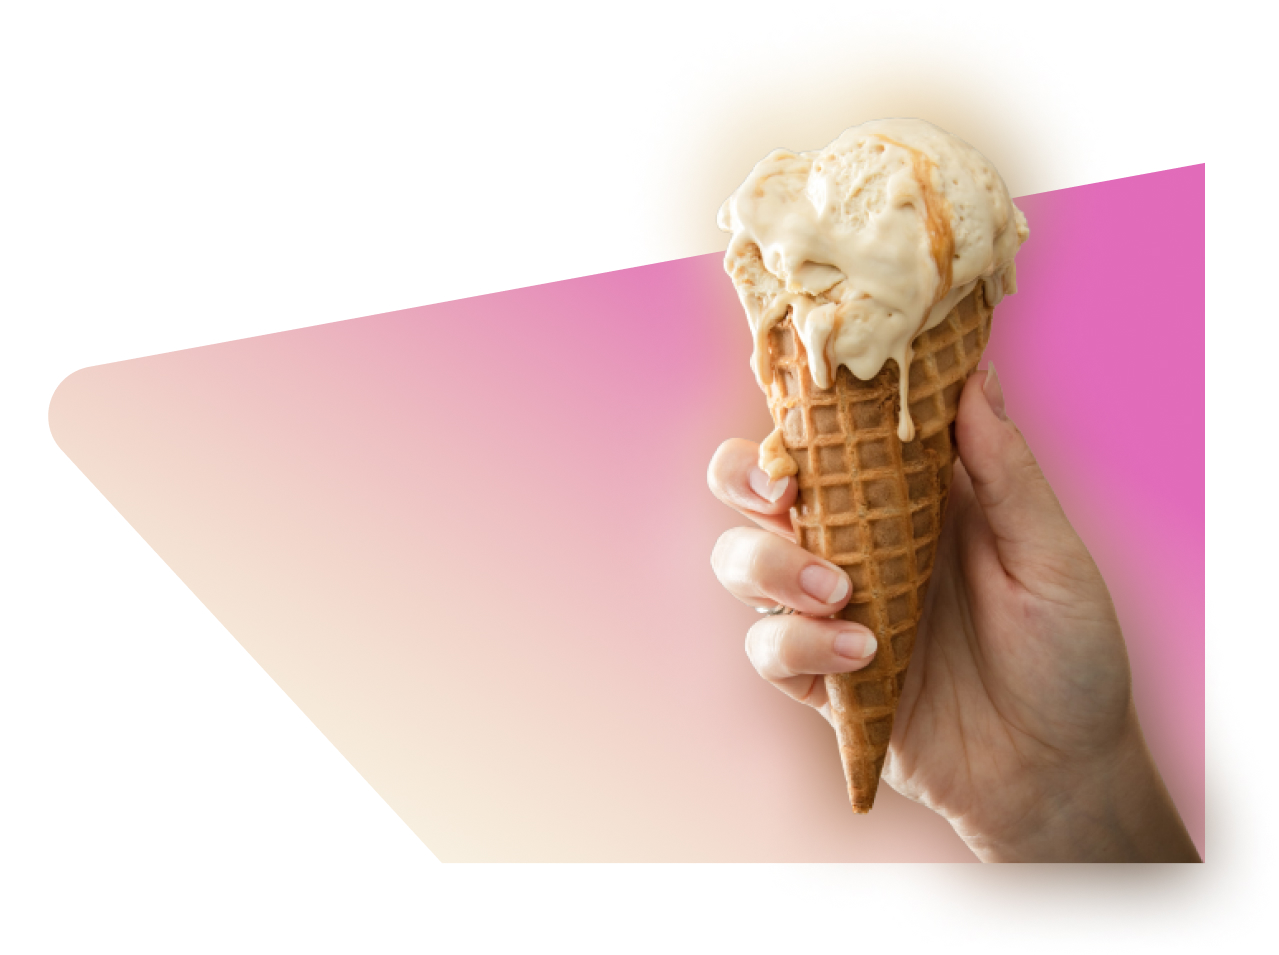
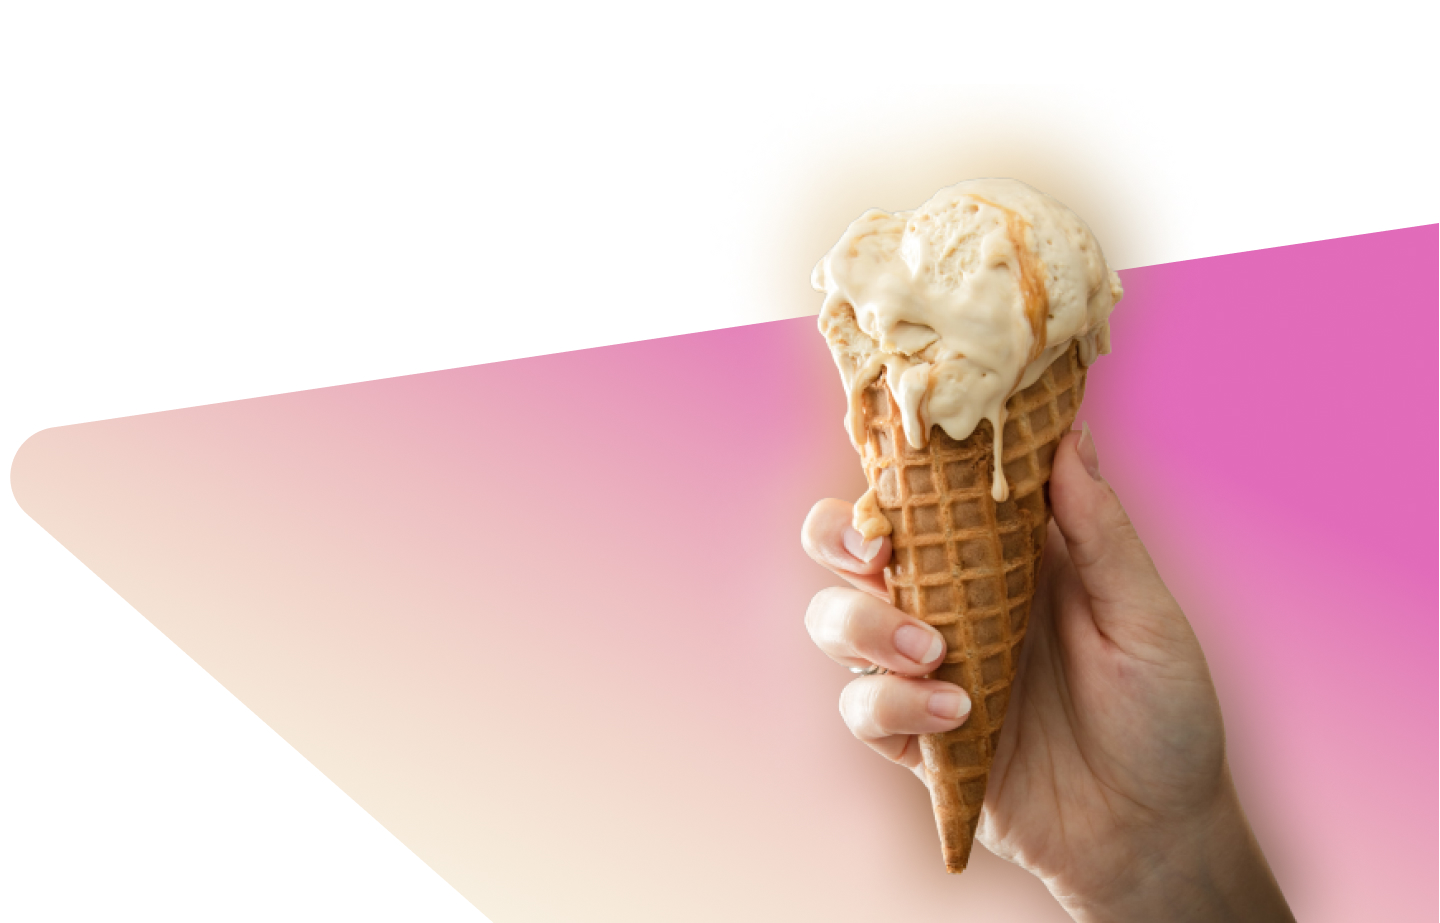
hero section done

diff --git a/_sass/layouts/_hero.scss b/_sass/layouts/_hero.scss
@@ -1,0 +1,137 @@
+@use '../base/utilities' as *;
+
+// main hero
+.hero {
+    // colors. using css variable due to some limitations with scss variables
+    --color-primary: hsl(184, 75%, 38%);
+    --color-primary-hue: 184;
+    --color-primary-saturation: 75%;
+    --color-primary-lightness: 50%;
+
+    position: relative;
+    min-height: 1200px;
+    // background-color: aquamarine;
+
+    .heroImage {
+        position: sticky;
+        top: 0px;
+        margin: auto;
+        height: 800px;
+        width: 100%;
+        background-image: url('../../assets/images/hero.jpg');
+        background-repeat: no-repeat;
+        background-position: center center;
+        background-size: cover;
+        z-index: -1;
+    }
+
+    .content {
+        position: sticky;
+        bottom: 40px;
+
+        margin-left: 230px;
+        padding: 30px;
+        color: var(--color-primary);
+        overflow: hidden;
+        display: inline-block;
+        width: 500px;
+
+        h1 {
+            max-width: 407px;
+            @include textShadow(5px, hsl(0, 0%, 45%));
+        }
+
+        h3 {
+            @include textShadow(8px, hsl(0, 0%, 45%));
+
+        }
+
+        .cta-btn {
+            margin-top: 30px;
+
+        }
+
+        button {
+            padding: 10px 30px;
+            border-radius: 30px;
+            color: var(--color-primary);
+            font-weight: 400;
+            font-size: toRem(16);
+            background-color: transparent;
+            border: none;
+            box-shadow: 1px 1px 3px 1px hsl(var(--color-primary-hue), var(--color-primary-saturation), var(--color-primary-lightness));
+        }
+
+        button:hover {
+            background-color: var(--color-primary);
+            color: #eee;
+
+        }
+
+        button:nth-child(2) {
+            --color-primary-lightness: 30%;
+            margin: 0 10px;
+            background-color: var(--color-primary);
+            color: #eee;
+
+            &:hover {
+                --color-primary-lightness: 50%;
+                background-color: transparent;
+                color: var(--color-primary);
+            }
+        }
+
+    }
+
+    @media(max-width: 768px) {
+
+        .content {
+            bottom: 35vh;
+            margin-left: 0;
+        }
+    }
+}
+
+
+// slider
+
+.sliderWrapper {
+    position: sticky;
+    bottom: 100px;
+    padding-bottom: 20px;
+
+    z-index: -10;
+    overflow: hidden;
+    width: 100%;
+    // background-color: aqua;
+}
+.sliderContainer {
+    display: flex;
+    margin: 100px auto;
+    rotate: -8.2deg;
+    width: 120%;
+    
+    .slider {
+        display: flex;
+        animation: slider 20s linear 0s infinite;
+    }
+    
+    .slide {   
+        margin: 0 5px;
+        overflow: hidden;
+    }
+    .txt {
+        $color-primary: hsl(184, 75%, 38%);
+        font-size: 64px;
+        font-family: 'Kalam', cursive;
+        white-space: nowrap;
+        color: $color-primary;
+    }
+
+    @keyframes slider {
+        100% {
+            transform: translateX(-100%);
+        }
+
+    }
+}

diff --git a/_includes/hero.html b/_includes/hero.html
@@ -1,22 +1,4 @@
-<!DOCTYPE html>
-<html lang="en">
-    <head>
-    <meta charset="UTF-8">
-    <meta http-equiv="X-UA-Compatible" content="IE=edge">
-    <meta name="viewport" content="width=device-width, initial-scale=1.0">
-    <title>Delicious Creams!</title>
-    <link rel="icon" href="assets/images/favicon.svg" type="image/svg+xml">
-    <link href="https://cdn.jsdelivr.net/npm/bootstrap@5.3.0-alpha1/dist/css/bootstrap.min.css" rel="stylesheet" integrity="sha384-GLhlTQ8iRABdZLl6O3oVMWSktQOp6b7In1Zl3/Jr59b6EGGoI1aFkw7cmDA6j6gD" crossorigin="anonymous">
-<link rel="stylesheet" href="/assets/css/styles.css">
-<link rel="preconnect" href="https://fonts.googleapis.com">
-<link rel="preconnect" href="https://fonts.gstatic.com" crossorigin>
-<link href="https://fonts.googleapis.com/css2?family=Kalam:wght@400;700&display=swap" rel="stylesheet">
-<link rel="preconnect" href="https://fonts.googleapis.com">
-<link rel="preconnect" href="https://fonts.gstatic.com" crossorigin>
-<link href="https://fonts.googleapis.com/css2?family=Ubuntu:ital@0;1&display=swap" rel="stylesheet">
-</head>
-<body>
-    <section>
+<section>
     <div class="hero">
         <div class="heroImage"></div>
         <div class="container content">
@@ -82,9 +64,3 @@
         imgContainer.width = result + '%'
     }
 </script>
-
-    <script src="https://cdn.jsdelivr.net/npm/bootstrap@5.3.0-alpha1/dist/js/bootstrap.bundle.min.js" integrity="sha384-w76AqPfDkMBDXo30jS1Sgez6pr3x5MlQ1ZAGC+nuZB+EYdgRZgiwxhTBTkF7CXvN" crossorigin="anonymous"></script>
-<script src="https://ajax.googleapis.com/ajax/libs/jquery/3.6.3/jquery.min.js"></script>
-<script src="/assets/js/scripts.js"></script>
-</body>
-</html>

diff --git a/_site/assets/css/styles.css b/_site/assets/css/styles.css
@@ -67,18 +67,30 @@ p {
   --color-primary-hue: 184;
   --color-primary-saturation: 75%;
   --color-primary-lightness: 50%;
+  position: relative;
+  min-height: 1200px;
+}
+.hero .heroImage {
+  position: sticky;
+  top: 0px;
+  margin: auto;
+  height: 800px;
+  width: 100%;
   background-image: url("../../assets/images/hero.jpg");
   background-repeat: no-repeat;
   background-position: center center;
   background-size: cover;
-  min-height: 800px;
-  display: flex;
-  align-items: center;
+  z-index: -1;
 }
 .hero .content {
-  margin-top: 30px;
+  position: sticky;
+  bottom: 40px;
   margin-left: 230px;
+  padding: 30px;
   color: var(--color-primary);
+  overflow: hidden;
+  display: inline-block;
+  width: 500px;
 }
 .hero .content h1 {
   max-width: 407px;
@@ -117,8 +129,42 @@ p {
 }
 @media (max-width: 768px) {
   .hero .content {
-    margin-left: 10%;
+    bottom: 35vh;
+    margin-left: 0;
   }
 }
 
-/*# sourceMappingURL=styles.css.map */
+.sliderWrapper {
+  position: sticky;
+  bottom: 100px;
+  padding-bottom: 20px;
+  z-index: -10;
+  overflow: hidden;
+  width: 100%;
+}
+
+.sliderContainer {
+  display: flex;
+  margin: 100px auto;
+  rotate: -8.2deg;
+  width: 120%;
+}
+.sliderContainer .slider {
+  display: flex;
+  animation: slider 20s linear 0s infinite;
+}
+.sliderContainer .slide {
+  margin: 0 5px;
+  overflow: hidden;
+}
+.sliderContainer .txt {
+  font-size: 64px;
+  font-family: "Kalam", cursive;
+  white-space: nowrap;
+  color: hsl(184deg, 75%, 38%);
+}
+@keyframes slider {
+  100% {
+    transform: translateX(-100%);
+  }
+}

diff --git a/_site/assets/js/hero.js b/_site/assets/js/hero.js
@@ -1,0 +1,20 @@
+window.addEventListener("scroll", callFun);
+
+
+const imgContainer = document.querySelector('.heroImage').style
+const initialWidth = imgContainer.width
+
+function callFun() {
+    const content = document.querySelector(".heroImage").getBoundingClientRect()
+    const initialHeight = content.height;
+    const finalHeight = initialHeight * 0.7;
+    const factor = (initialHeight - finalHeight) / 30;
+    let result = content.bottom / factor;
+    
+
+    if (result < 60) {
+        result = 60
+    }
+    // console.log(result);
+    imgContainer.width = result + '%'
+}

diff --git a/assets/js/hero.js b/assets/js/hero.js
@@ -1,0 +1,20 @@
+window.addEventListener("scroll", callFun);
+
+
+const imgContainer = document.querySelector('.heroImage').style
+const initialWidth = imgContainer.width
+
+function callFun() {
+    const content = document.querySelector(".heroImage").getBoundingClientRect()
+    const initialHeight = content.height;
+    const finalHeight = initialHeight * 0.7;
+    const factor = (initialHeight - finalHeight) / 30;
+    let result = content.bottom / factor;
+    
+
+    if (result < 60) {
+        result = 60
+    }
+    // console.log(result);
+    imgContainer.width = result + '%'
+}

diff --git a/_sass/base/_utilities.scss b/_sass/base/_utilities.scss
@@ -1,6 +1,7 @@
 @function toRem($value) {
     $remValue: ($value / 10)+rem; // default font value is changed in _base.scss
-    @return $remValue;
+     @return $remValue;
+
 }
 
 @mixin textShadow($blur, $color) {

diff --git a/index.html b/index.html
@@ -3,4 +3,4 @@ layout: default
 title: Delicious Creams!
 permalink: '/'
 ---
-{% include header.html %}
+{% include hero.html %}

diff --git a/_sass/_main.scss b/_sass/_main.scss
@@ -14,3 +14,5 @@
 @import 'layouts/navigation';
 
 @import 'pages/home';
+
+@import 'layouts/hero';
